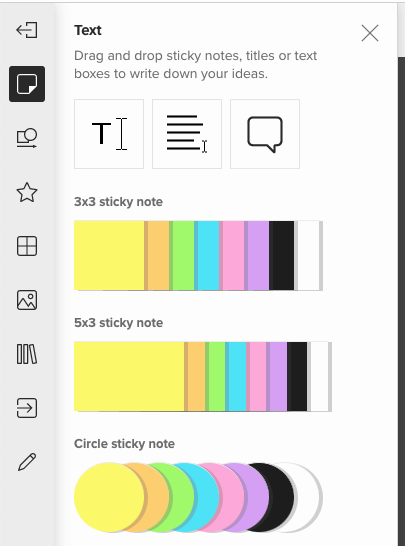
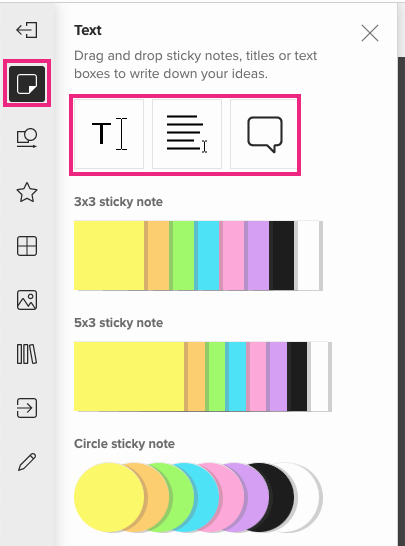
update lab5

Changed region(s): [[0.0, 0.0934, 0.7407, 0.3425]]

diff --git a/lab5/index.html b/lab5/index.html
@@ -4,13 +4,24 @@
 <meta charset="UTF-8">
 <title>lab5</title>
 <link href="index.html.css" rel="stylesheet" type="text/css">
-	<link href="css/koala.css" rel="stylesheet" type="text/css">
+	<link href="css/toolbar.css" rel="stylesheet" type="text/css">
+	<script src="https://ajax.googleapis.com/ajax/libs/jquery/3.6.0/jquery.min.js"></script>
+<script>
+$( function(){
+$("#text1").click( function(){
+$("#text2").css("display","inline");
+	$("#text1").css("display","none");
+	$("#answer").html("<h2>Click on the sticky note icon!</h2>");
+});
+});
+</script>
+
 </head>
 
 <body>
 		  <div id="wrapper">
 		  <h1> Where do you click on the toolbar to add text? </h1>
-	<h3 id="hint">Hint: Hover over the image below to find out!</h3>
+	<h3 id="hint">Hint: Click the image below to find out!</h3>
  
 <img id="text1"   src="img/text1.png"   />
  
